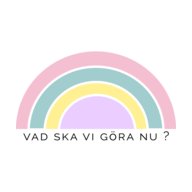
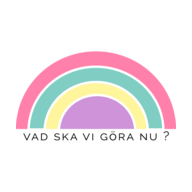
new awesome styling

Changed region(s): [[0.0625, 0.25, 0.9375, 0.6875], [0.3125, 0.5, 0.7188, 0.6875]]

diff --git a/src/components/home/Home.scss b/src/components/home/Home.scss
@@ -22,18 +22,17 @@
     justify-content: center;
     .activityContainer {
       border: 2px black;
-      font-weight: 600;
+      font-weight: 350;
       color: var(--black);
       display: block;
       #welcomeMsg {
         padding: 2%;
         .welcomeText {
-          font-family: "Raleway Dots";
+          font-family: "Trebuchet MS";
           font-size: 4vw;
-          text-transform: uppercase;
           letter-spacing: 1;
           color: var(--black);
-          font-weight: 600;
+          font-weight: 350;
           display: flex;
           flex-direction: column;
           margin-bottom: 3vh;
@@ -50,6 +49,7 @@
         max-height: 0;
       }
       #textPresentation {
+        
         height: 40vh;
         justify-content: space-around;
         display: flex;
@@ -57,7 +57,7 @@
 
         #activityTitle {
           font-size: 30px;
-          font-weight: bold;
+          font-weight: 400;
 
           @include tablet {
             font-size: 40px;
@@ -67,19 +67,27 @@
         #activityDesc {
           padding: 15px;
           display: block;
+          font-weight: 350;
+          letter-spacing: 1px;
+          font-size: 2.5vw;
 
           @include tablet {
-            font-size: 18px;
+            font-size: 2vw;
+            font-weight: 350;
             padding-top: 30px;
             padding-left: 160px;
             padding-right: 160px;
+
+            @include desktop {
+              font-size: 1.5vw;
+            }
           }
         }
         a {
           color: var(--black);
 
           @include tablet {
-            font-size: 14px;
+            font-size: 2vw;
           }
         }
       }
@@ -120,13 +128,13 @@
 }
 #errMessage {
   padding: 2vh;
-  font-weight: 600;
+  font-weight: 350;
   font-size: 3vh;
   color: var(--color-delete);
 }
 #categoryPresentation {
-  font-family: 'Helvetica Neue';
-  font-weight: 300;
+  font-family: 'Trebuchet MS';
+  font-weight: 350;
   font-size: 12vw;
   width: 100%;
   margin: 0 auto;

diff --git a/src/components/about-us/AboutUs.scss b/src/components/about-us/AboutUs.scss
@@ -3,7 +3,7 @@
 
 .goBack {
   width: 140px;
-  background: var(--color-one);
+  background: var(--color-two);
   button {
     text-transform: uppercase;
     font-size: 14px;
@@ -19,7 +19,7 @@
 
 #aboutUsContainer {
   background: var(--background-one);
-  height: 65vh;
+  min-height: 75vh;
   padding-top: 60px;
   overflow: scroll;
 
@@ -28,7 +28,7 @@
     height: 85vh;
   }
   @include desktop {
-    height: 65vh;
+   height: 70vh;
   }
 
   #photoContainer {
@@ -53,7 +53,7 @@
     padding-top: 40px;
 
     .aboutUsText {
-      font-weight: 600;
+      font-weight: 350;
       width: 70%;
       display: block;
       margin-top: 40px;
@@ -62,6 +62,7 @@
 
       @include tablet {
         width: 60%;
+        font-size: 3.5vw;
       }
       @include desktop {
         width: 40%;

diff --git a/src/components/add-activity/AddActivity.scss b/src/components/add-activity/AddActivity.scss
@@ -3,7 +3,7 @@
 
 label {
     color: var(--black);
-    font-weight: 600;
+    font-weight: 350;
     width: 100%;
 
     p {
@@ -12,6 +12,9 @@ label {
         text-align: left;
         font-size: 12px;
         padding-left: 20px;
+        @include desktop {
+            padding-left: 40px !important;
+        }
 
     }
 }
@@ -39,7 +42,7 @@ label {
 fieldset {
     border: unset;
   p {
-      font-weight: 600;
+      font-weight: 350;
       font-size: 14px;
       letter-spacing: 1;
       text-transform: uppercase;
@@ -66,7 +69,7 @@ fieldset {
     width: 70%;
     border-radius:10px;
     height: 40px; 
-    font-weight: 600;
+    font-weight: 350;
 
     @include tablet {
         width: 50%;

diff --git a/src/index.scss b/src/index.scss
@@ -2,7 +2,7 @@
 body {
   margin: 0;
   font-family: -apple-system, BlinkMacSystemFont, 'Segoe UI', 'Roboto', 'Oxygen',
-    'Ubuntu', 'Cantarell', 'Fira Sans', 'Droid Sans', 'Helvetica Neue',
+    'Ubuntu', 'Cantarell', 'Fira Sans', 'Droid Sans', 'Helvetica Neue', 'Trebuchet MS', 'Lucida Sans Unicode', 'Lucida Grande', 'Lucida Sans', Arial, sans-serif
     sans-serif,'Lobster';
   -webkit-font-smoothing: antialiased;
   -moz-osx-font-smoothing: grayscale;
@@ -13,6 +13,6 @@ body {
 }
 
 code {
-  font-family: source-code-pro, Menlo, Monaco, Consolas, 'Courier New',
+  font-family: source-code-pro, Menlo, Monaco, Consolas, 'Courier New' 'Trebuchet MS',
     monospace;
 }

diff --git a/src/components/categoryButton/CategoryButton.scss b/src/components/categoryButton/CategoryButton.scss
@@ -31,7 +31,7 @@
 
   .btnClicked {
    font-size: 22px;
- /*   text-decoration: underline; */
+    letter-spacing: 2px;
     width: 100%;
         #alla {
           box-shadow: 10px 7px 14px -2px rgba(0,0,0,0.41)
@@ -50,6 +50,7 @@
   }
   .unclicked {
     box-shadow: unset;
+    letter-spacing: 2px;
   }
 
   /*  @include tablet {
@@ -60,7 +61,7 @@
   }
 }
 #alla {
-  background: var(--color-one);
+  background: var(--color-two);
   float: left;
   margin-right: 5px;
   margin-bottom: 5px;
@@ -69,7 +70,7 @@
   }
 }
 #inomhus {
-  background: var(--color-two);
+  background: var(--color-one);
   margin-left: 5px;
   margin-bottom: 5px;
 

diff --git a/src/components/add-suggestion/AddSuggestion.scss b/src/components/add-suggestion/AddSuggestion.scss
@@ -17,14 +17,14 @@
 #inputDesc {
     height: 100px;
     resize: none;
-    font-family:"Arial";  
+    font-family:"Trebuchet MS";  
    font-size: 12px;  
    border: 2px solid var(--color-two);
 }
 #reviewSuggestion {
 max-width: 100%;
     h3 {
-        font-weight: bold;
+        font-weight: 350;
     }
     p:first-child {
         word-break: break-all;
@@ -50,7 +50,7 @@ max-width: 100%;
   }
  
   #thanks {
-      font-weight: 700;
+      font-weight: 350;
       color: red;
       font-size: 18px;
   }

diff --git a/src/components/headerText/headerText.scss b/src/components/headerText/headerText.scss
@@ -12,12 +12,12 @@
         margin: 0 auto;
 
             .headerText {
-            font-family: 'Raleway Dots';
+            font-family: 'Trebuchet MS';
             font-size: 3vw;
             text-transform: uppercase;
             letter-spacing: 1;
             color: var(--black);
-            font-weight: 600;
+            font-weight: 350;
             margin: 0 auto;
             display: block;
 

diff --git a/src/App.scss b/src/App.scss
@@ -2,7 +2,7 @@
   display: flex;
   flex-direction: column;
   text-align: center;
-  font-family: "Raleway Dots";
+  font-family: "Trebuchet MS";
   /*   overflow: scroll; */
 }
 main {
@@ -10,7 +10,7 @@ main {
   min-height: 70vh;
 }
 body {
-  font-family: "Raleway Dots";
+  font-family: "Trebuchet MS";
 }
 
 button {

diff --git a/src/styles/colors.scss b/src/styles/colors.scss
@@ -1,9 +1,9 @@
 
 :root {
- --color-one: #f5b4d2;
---color-two: #a1cdce;
---color-three: #fff094;
---color-four: #ebceff;
+--color-one: #80cbc4;
+--color-two: #ff80ab;
+--color-three: #fff59d;
+--color-four:#ce93d8;
 --color-delete: rgba(249,22, 22, .5);
 
 --white: #ffffff;

diff --git a/src/components/footer/Footer.scss b/src/components/footer/Footer.scss
@@ -16,12 +16,12 @@
   }
 }
 button {
-  font-family: "Raleway Dots";
+  font-family: "Trebuchet MS";
   font-size: 18px;
   color: 000000;
   background: 000000;
   border: none;
-  font-weight: 600;
+  font-weight: 350;
   text-transform: uppercase;
 }
 #buttonAdmin {

diff --git a/src/components/header/Header.tsx b/src/components/header/Header.tsx
@@ -1,6 +1,6 @@
 import React from 'react';
 import './Header.scss';
-import headerLogo from '../../assets/Header.jpg';
+import headerLogo from '../../assets/Header.png';
 import { Link } from 'react-router-dom';
 
 

diff --git a/src/components/admin/Admin.scss b/src/components/admin/Admin.scss
@@ -26,7 +26,7 @@
     }
 
     div {
-      font-weight: 600;
+      font-weight: 350;
       font-size: 10px;
       @include tablet {
         font-size: 14px;
